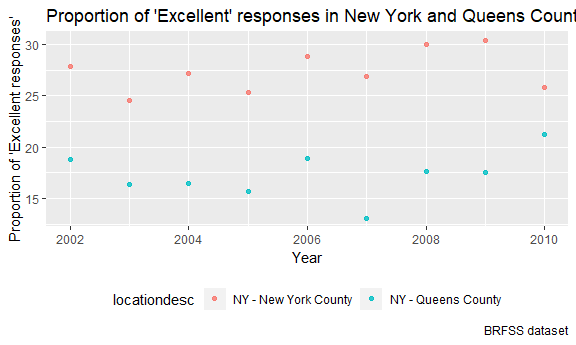
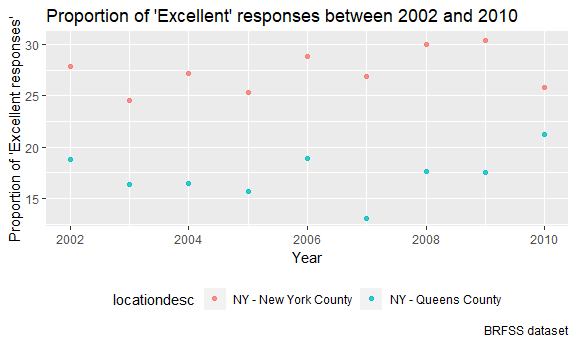
Final edits to written summaries

Changed region(s): [[0.5625, 0.029, 1.0, 0.087]]

diff --git a/p8105_hw2_azz2107.md b/p8105_hw2_azz2107.md
@@ -39,11 +39,15 @@ variable names, selecting relevant variables to keep in the dataset, and
 recoding the *entry* variable into a logical type (TRUE vs. FALSE). The
 dimension of this dataset is 1868 observations with 19 variables.
 
-Tidiness depends on what information you are looking to get out of the
-dataset. The part of the NYC transit dataset I would consider untidy are
-the route numbers. The variable names of route numbers should instead be
-used as values, especially if you are are looking to compare individual
-subway stations.
+A tidy dataset is a way to organize your data for analysis. Tidiness can
+depend on what information you are looking to get out of the dataset but
+fundamentally it requires that each variable should have their own
+column and each observation its own row. In the NYC Transit dataset, if
+we choose to analyze routes we would not consider this a tidy data. The
+route variable is spread across multiple columns. For the sake of
+analysis, it should be condensed into one variable using the gather
+function in R. The part of the NYC transit dataset I would consider
+untidy are the route numbers.
 
 -   There are 465 distinct stations.  
 -   There are 468 stations that are ADA compliant.  
@@ -108,10 +112,13 @@ Problem 2
     ## #   grocery_bags <dbl>, chip_bags <dbl>, sports_balls <int>,
     ## #   homes_powered <dbl>
 
-In the Mr. Trash Wheel dataset, there are 285 observations and 14
-variables. The median number of sports balls collected by the dumpster
-in 2016 is 26. Since 2014, the Mr. Trash Wheel has collected 4439 which
-is about 186.988tons per year.
+The Mr. Trash Wheel dataset contains information on trash removed from
+the Inner Harbor in Baltimore, Maryland by a "water-wheel vessel". The
+dataset contains 285 observations and 14 variables. The median number of
+sports balls collected by the dumpster in 2016 is 26. It has also
+collected a total of 7975 glass bottles, 5.611810^{5} plastic bottles,
+and 6.6143710^{5} polystyrene items. Since May 2014, the Mr. Trash Wheel
+has collected 4439 which is about 186.988tons per year.
 
 ### Precipitation Dataset
 
@@ -152,7 +159,11 @@ is about 186.988tons per year.
 
 In the joined 2016 and 2017 precipitation dataset, there are 24
 observations and 3 variables which include month, total precipitation,
-and year. The total precipitation in 2017 was 32.93 inches.
+and year. The total precipitation in 2017 was 32.93 inches and in 2016
+it was 39.95 inches. The total precipitation in a month ranges from as
+little as 0 inches to a maximum of 7.09 inches between 2016 and 2017. On
+average it rained 3.3291667 inches per month in 2016 and 2.7441667
+inches per month in 2017.
 
 Problem 3 - BRFSS Dataset
 -------------------------
@@ -185,10 +196,16 @@ Problem 3 - BRFSS Dataset
 
 The BRFSS dataset contains information on how individuals in the United
 States rated their overall health on a scale of poor to excellent. This
-dataset has 2125 observations and 9. Surveys were taken in 404 distinct
-locations within the United States. Of these locations, 51 states
-including Washington D.C. were included. In 2002, the median of the
-"Excellent" response value was 23.6%.
+dataset has 2125 observations and 9 variables.
+
+    state_mode = count(brfss_df,locationabbr) %>%
+      arrange(desc(n))
+
+Surveys were taken in 404 distinct locations within the United States.
+Of these locations, 51 states including Washington D.C. were included.
+The state observed the most was NJ.
+
+In 2002, the median of the "Excellent" response value was 23.6%.
 
     # Histogram of "Excellent" response values in 2002
     ggplot(filter(brfss_df, year == 2002), aes(x = excellent)) + 
@@ -215,8 +232,8 @@ including Washington D.C. were included. In 2002, the median of the
     # Scatterplot of "Excellent" response values in New York County and Queens County from 2002 to 2010
     ggplot(filter(brfss_df, locationdesc == "NY - New York County" | locationdesc == "NY - Queens County"), aes(x = year, y = excellent)) + 
       geom_point(aes(color = locationdesc), alpha = .8) + 
+      ggtitle("Proportion of 'Excellent' responses between 2002 and 2010") + 
       labs(
-        title = "Proportion of 'Excellent' responses in New York and Queens Country between 2002 and 2010",
         x = "Year", 
         y = "Proportion of 'Excellent responses'",
         caption = "BRFSS dataset"
